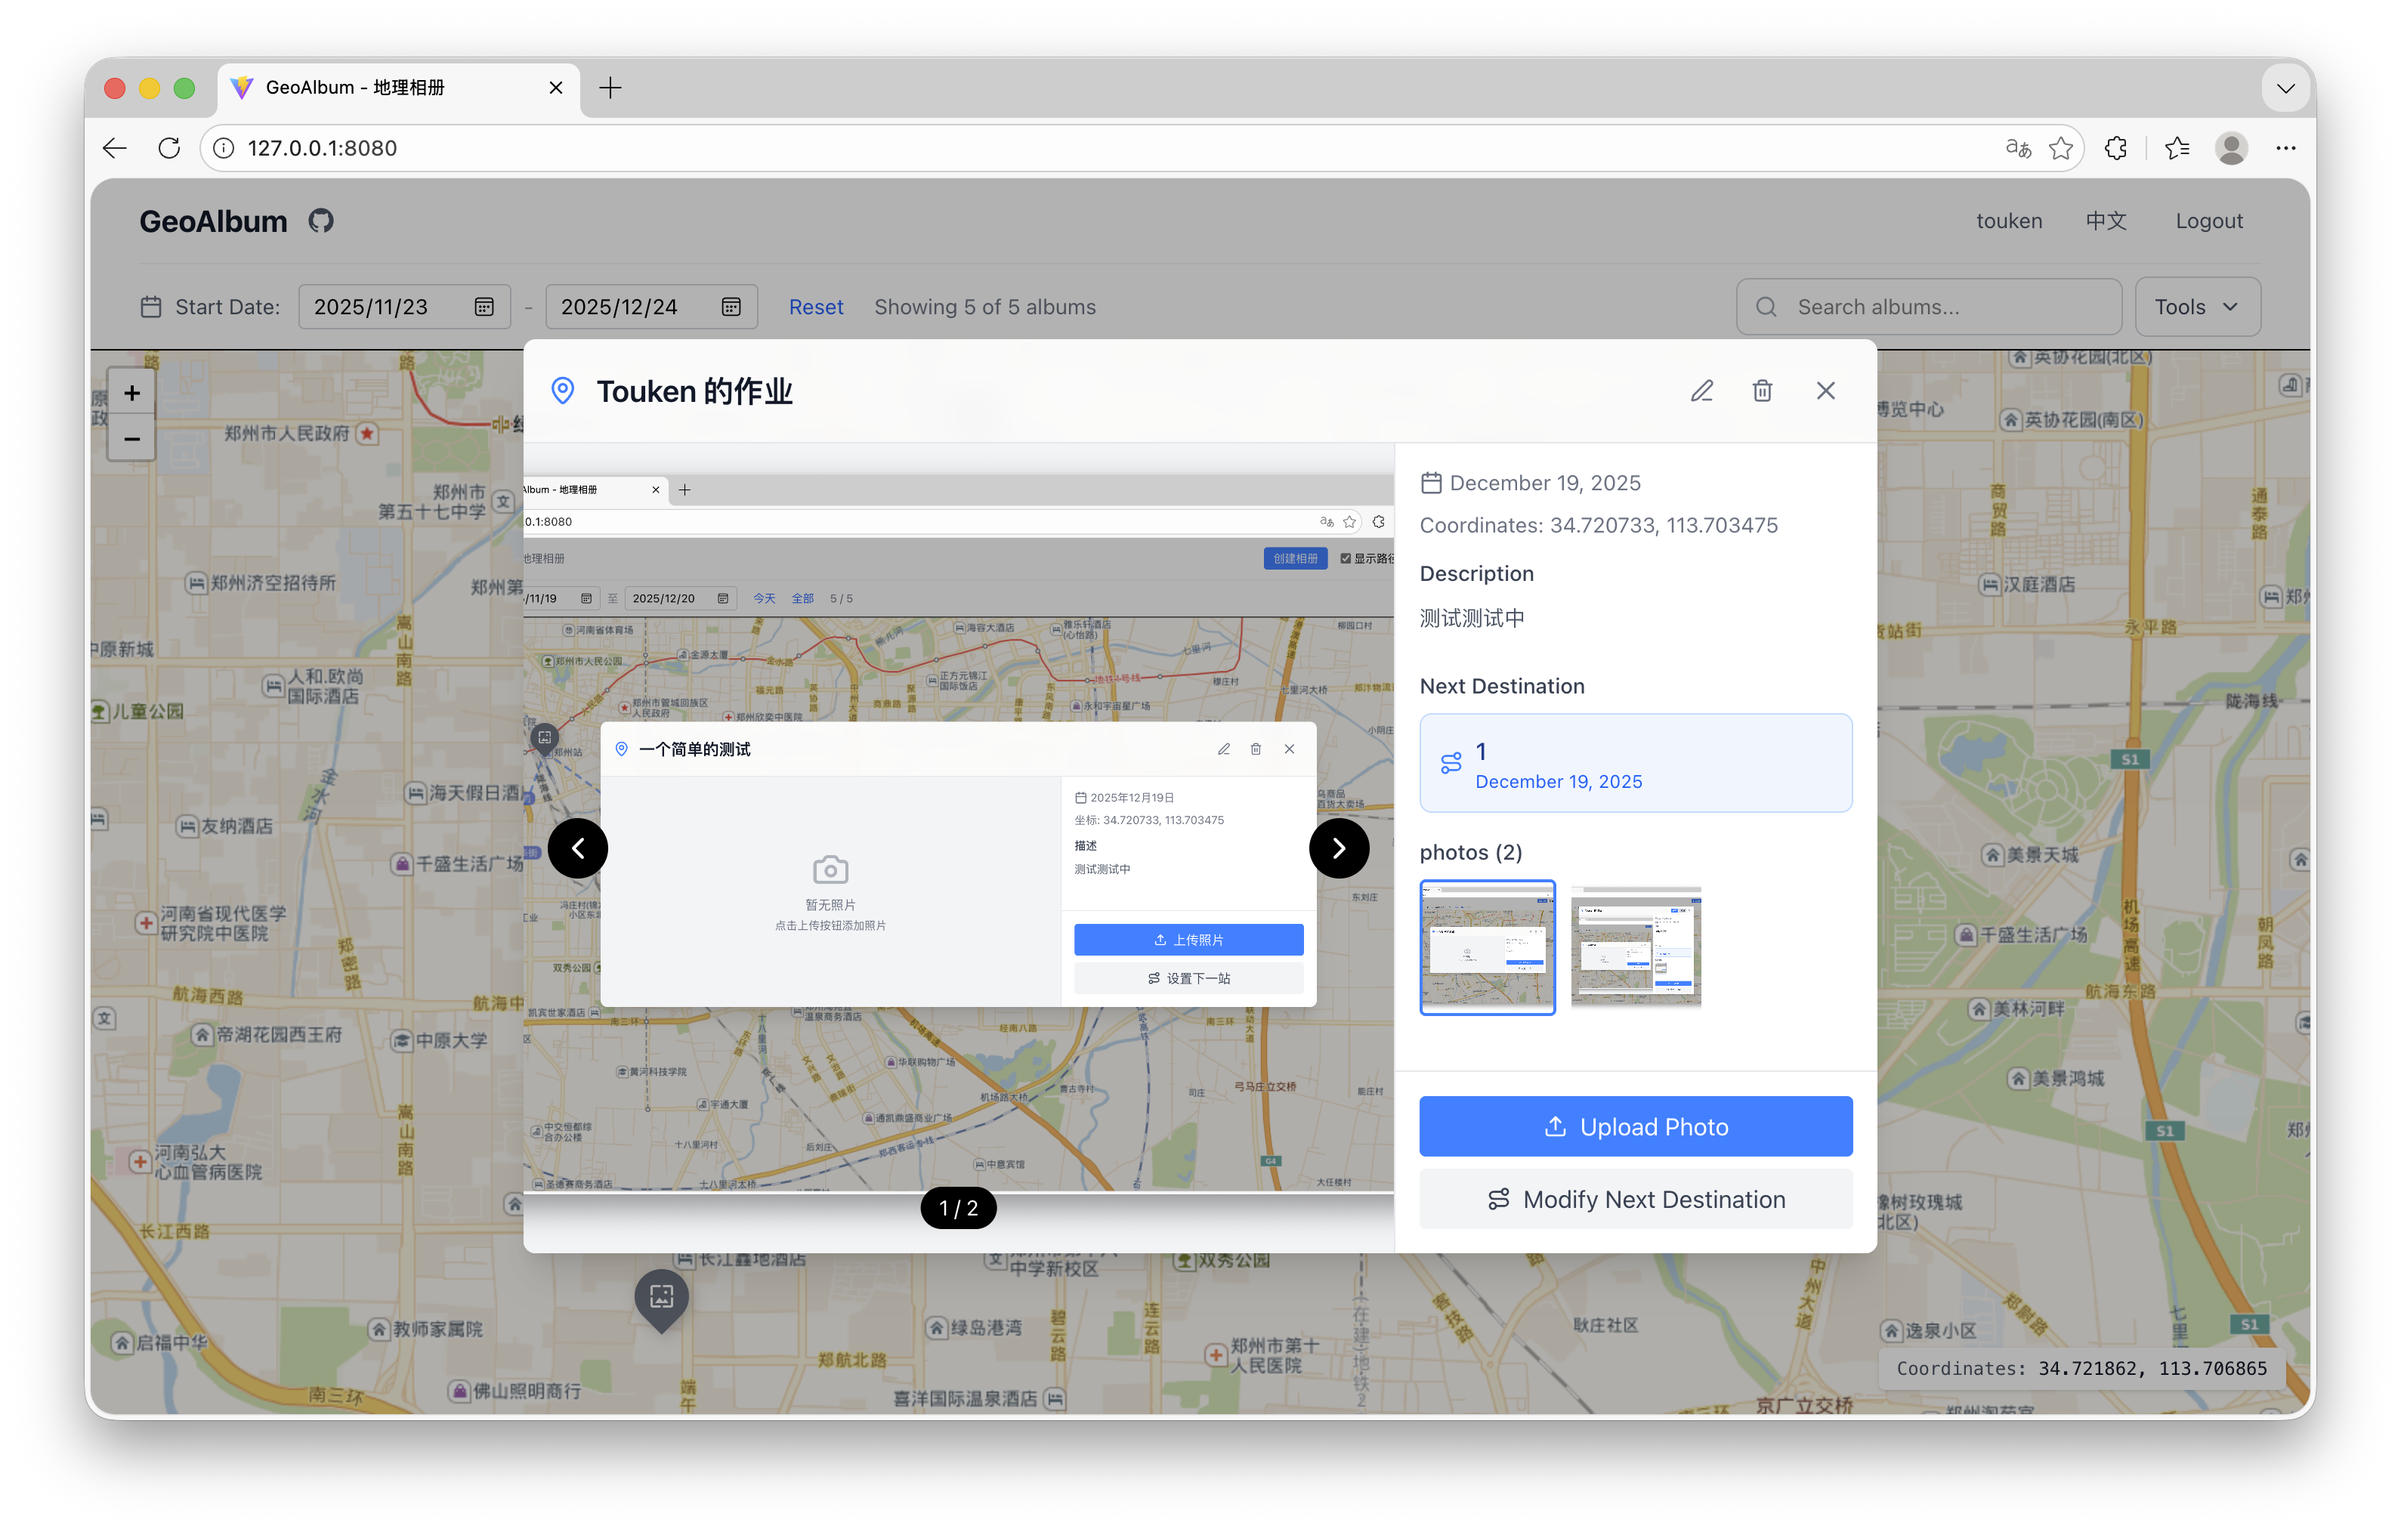
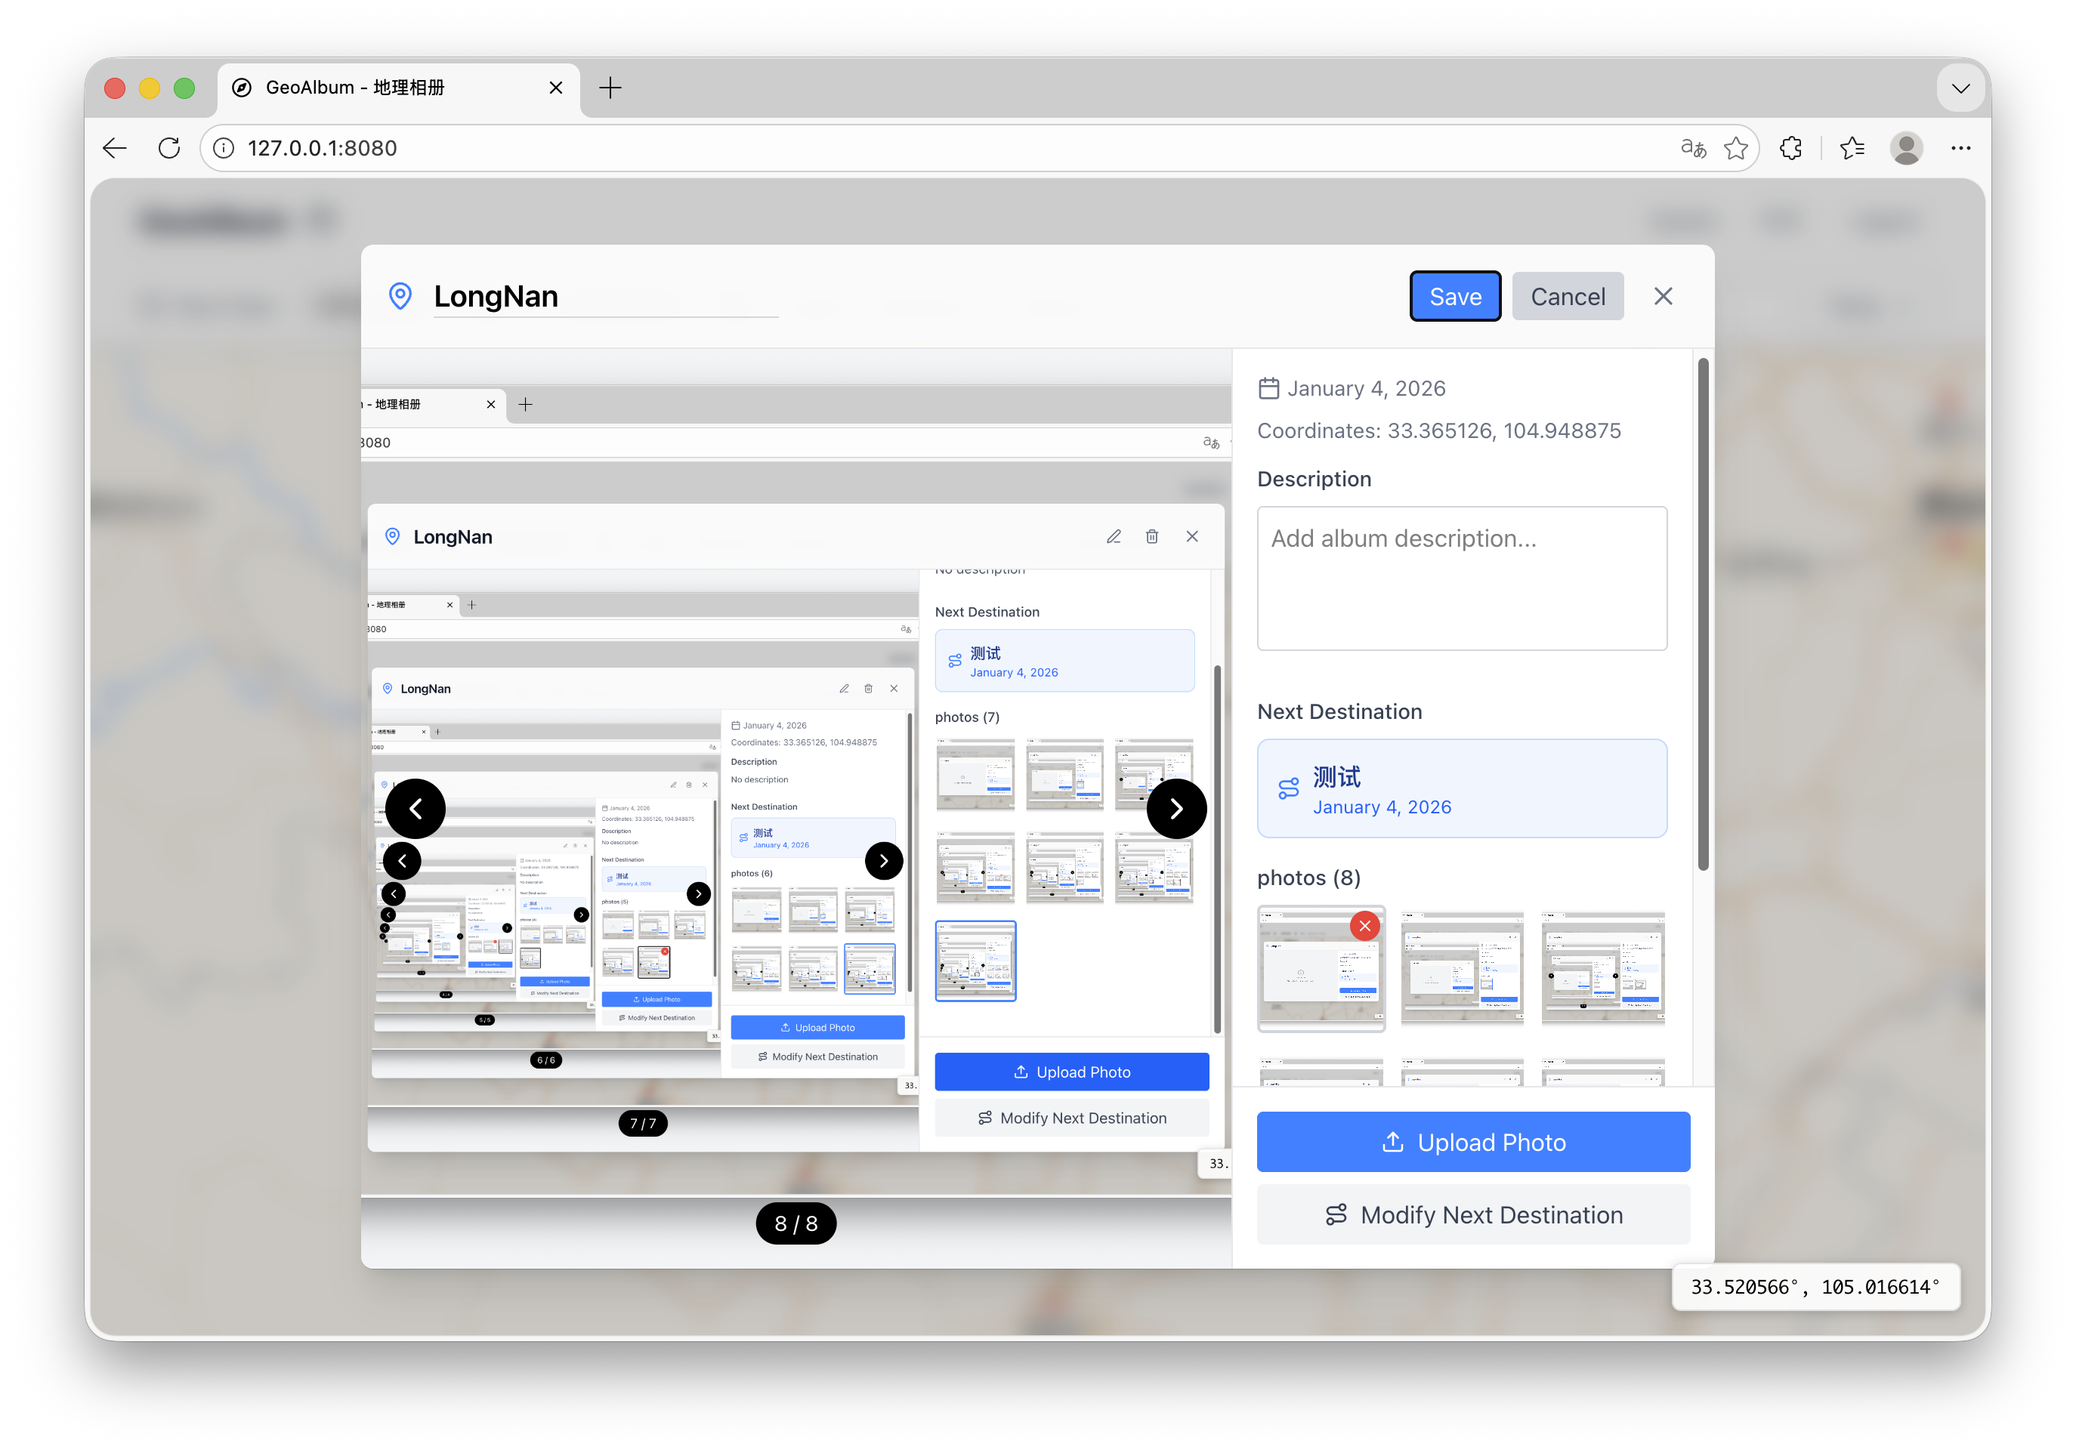
fix: 修复下一站显示，更换截图

diff --git a/frontend/src/components/NextDestinationSelector.tsx b/frontend/src/components/NextDestinationSelector.tsx
@@ -2,6 +2,7 @@ import React, { useState, useEffect } from 'react';
 import { X, MapPin, Calendar, Search, Trash2 } from 'lucide-react';
 import type { Album } from '../types';
 import { apiClient } from '../services/api';
+import ModalContainer from './ModalContainer';
 
 interface NextDestinationSelectorProps {
   currentAlbum: Album;
@@ -93,11 +94,13 @@ const NextDestinationSelector: React.FC<NextDestinationSelectorProps> = ({
     });
   };
 
-  if (!isOpen) return null;
-
   return (
-    <div className="fixed inset-0 bg-black bg-opacity-50 z-[60] flex items-center justify-center p-4">
-      <div className="bg-white rounded-lg shadow-xl max-w-2xl w-full max-h-[80vh] overflow-hidden" onClick={(e) => e.stopPropagation()}>
+    <ModalContainer 
+      isOpen={isOpen} 
+      onClose={onClose} 
+      transparent={true}
+      size="xl"
+    >
         {/* Header */}
         <div className="flex items-center justify-between p-4 border-b border-gray-200">
           <div className="flex items-center space-x-3">
@@ -224,8 +227,7 @@ const NextDestinationSelector: React.FC<NextDestinationSelectorProps> = ({
             </button>
           </div>
         </div>
-      </div>
-    </div>
+    </ModalContainer>
   );
 };
 
